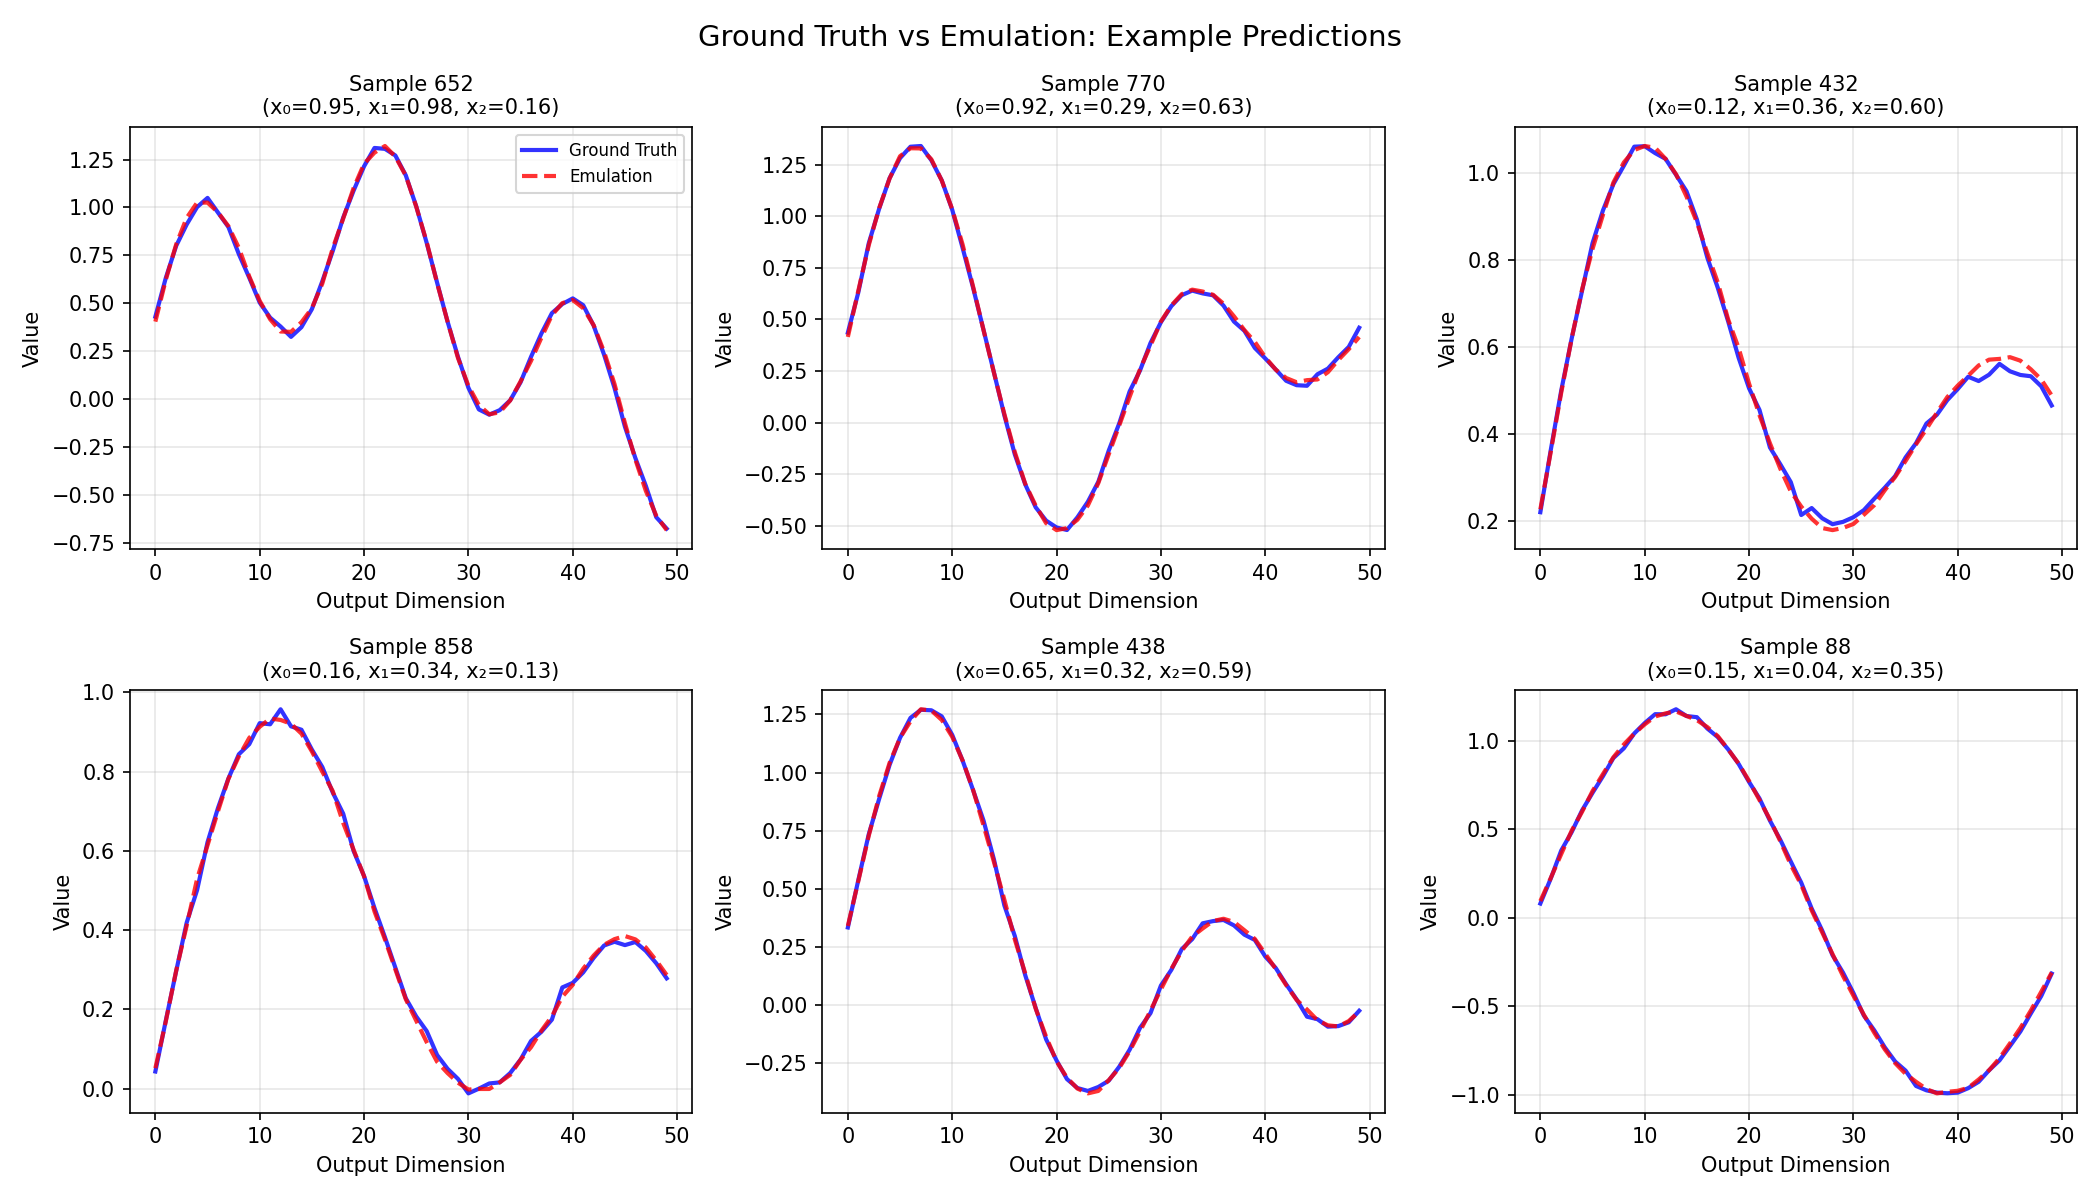
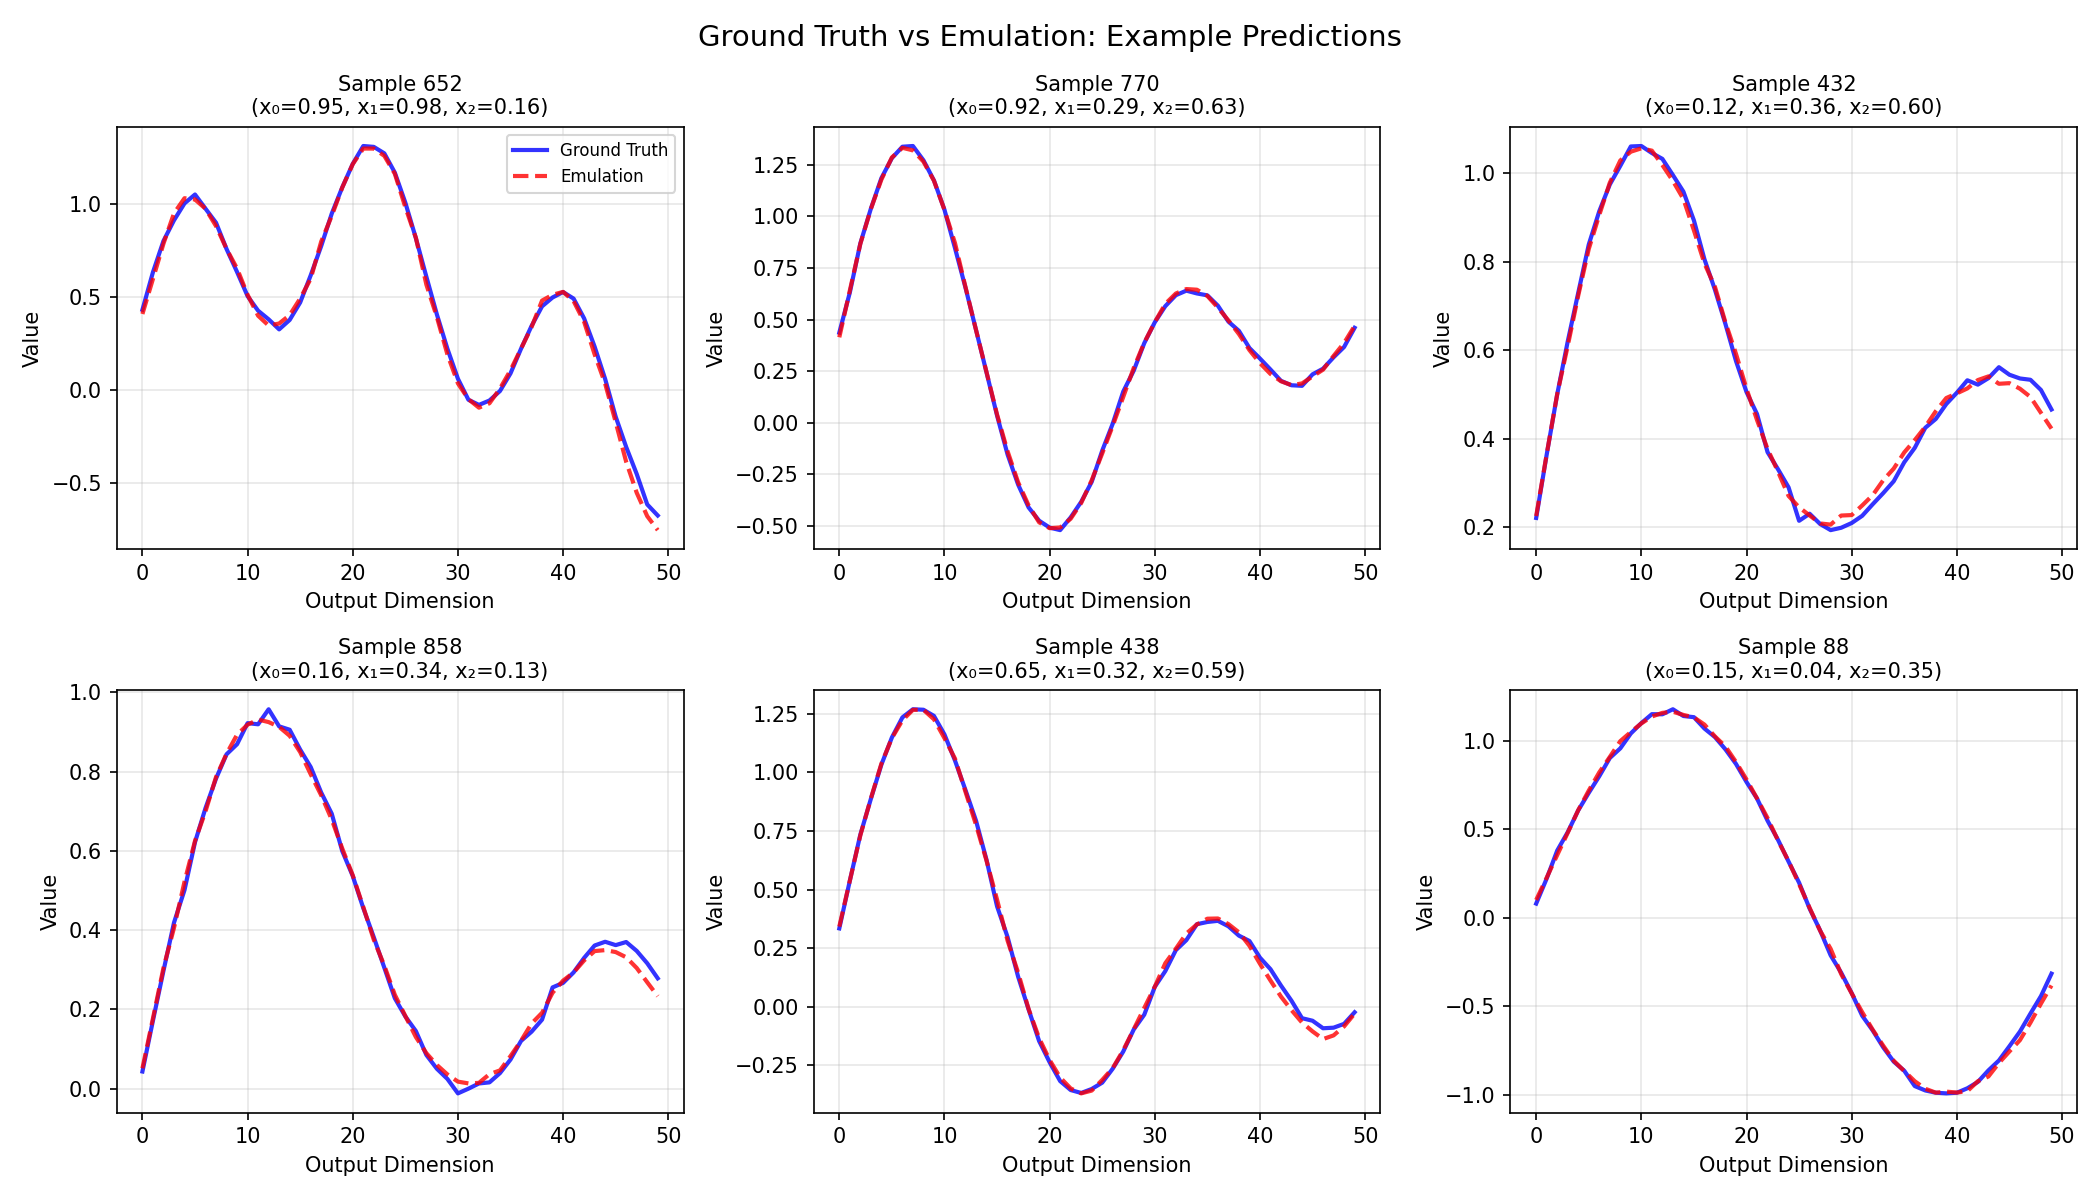
Apply GPT-5/Gemini review recommendations
- Constrain gamma to (0,1) via sigmoid on logits (per Speculator paper)
- Use shape inference instead of explicit features arg
- Add gradient clipping (optax.clip_by_global_norm)

Results: Slightly slower convergence (1330x vs 2370x improvement) but
mathematically correct behavior. Final loss still excellent (3.5e-4).

🤖 Generated with [Claude Code](https://claude.com/claude-code)

diff --git a/snippets/flax_nn.py b/snippets/flax_nn.py
@@ -29,29 +29,36 @@ class SpeculatorActivation(nn.Module):
     """
     Speculator activation function from Alsing et al. (2019), Eq. 4.
 
-    σ(x) = [γ + sigmoid(β·x) · (1 - γ)] · x
+    σ(x) = [γ + sigmoid(α·x) · (1 - γ)] · x
 
-    Where β (alpha) and γ (beta) are learnable parameters per neuron.
-    This provides smooth, infinitely differentiable activations suitable for HMC.
-
-    In CosmoPower notation:
-    - alpha = β (controls sigmoid steepness)
-    - beta = γ (controls linear vs sigmoid mixing)
+    Where α and γ are learnable parameters per neuron.
+    γ is constrained to (0,1) via sigmoid on learnable logits.
 
     Properties:
     - When γ → 1: becomes linear (identity)
-    - When γ → 0: becomes x·sigmoid(β·x) (smooth ReLU-like)
+    - When γ → 0: becomes x·sigmoid(α·x) (smooth ReLU-like)
     - Learnable parameters allow network to interpolate between regimes
+    - Smooth, infinitely differentiable (suitable for HMC)
+
+    Updated based on GPT-5/Gemini review:
+    - Uses shape inference (no explicit features arg)
+    - Constrains γ ∈ (0,1) via sigmoid on logits
     """
-    features: int
 
     @nn.compact
     def __call__(self, x):
-        # Learnable parameters (one per feature/neuron)
-        # Initialize alpha (beta in paper) to 1.0 for moderate sigmoid steepness
-        alpha = self.param('alpha', nn.initializers.ones, (self.features,))
-        # Initialize gamma (beta in CosmoPower) to 0.0 for ReLU-like start
-        gamma = self.param('gamma', nn.initializers.zeros, (self.features,))
+        # Infer feature dimension from input (lazy initialization)
+        features = x.shape[-1]
+
+        # α controls sigmoid steepness (unconstrained)
+        alpha = self.param('alpha', nn.initializers.ones, (features,))
+
+        # γ stored as logits, mapped through sigmoid to (0,1)
+        # Initialize logits to -2.0 so sigmoid(-2) ≈ 0.12 (mostly gated, slight linear)
+        gamma_logits = self.param('gamma_logits',
+                                   nn.initializers.constant(-2.0),
+                                   (features,))
+        gamma = jax.nn.sigmoid(gamma_logits)
 
         # Speculator activation: (gamma + sigmoid(alpha * x) * (1 - gamma)) * x
         sigmoid_term = jax.nn.sigmoid(alpha * x)
@@ -80,6 +87,9 @@ class EmulatorMLP(nn.Module):
     - Output: PCA coefficients (linear, no activation)
 
     Typical config: 4 hidden layers × 512 units
+
+    Updated based on GPT-5/Gemini review:
+    - SpeculatorActivation uses shape inference (no features arg)
     """
     n_hidden: int = 4
     n_units: int = 512
@@ -90,7 +100,7 @@ class EmulatorMLP(nn.Module):
         # Hidden layers with Speculator activation
         for i in range(self.n_hidden):
             x = nn.Dense(self.n_units, name=f'dense_{i}')(x)
-            x = SpeculatorActivation(self.n_units, name=f'activation_{i}')(x)
+            x = SpeculatorActivation(name=f'activation_{i}')(x)  # Shape inference
 
         # Output layer (linear, no activation)
         x = nn.Dense(self.n_outputs, name='output')(x)

diff --git a/scripts/train_toy_example.py b/scripts/train_toy_example.py
@@ -81,9 +81,13 @@ def generate_synthetic_data(n_samples: int, n_outputs: int = 50, seed: int = 42)
 # =============================================================================
 
 def create_train_state(rng, model, learning_rate, input_dim):
-    """Initialize training state."""
+    """Initialize training state with gradient clipping (per GPT-5/Gemini review)."""
     params = model.init(rng, jnp.ones((1, input_dim)))
-    tx = optax.adamw(learning_rate=learning_rate, weight_decay=1e-4)
+    # Add gradient clipping for stability (recommended by both reviewers)
+    tx = optax.chain(
+        optax.clip_by_global_norm(1.0),
+        optax.adamw(learning_rate=learning_rate, weight_decay=1e-4)
+    )
     return train_state.TrainState.create(
         apply_fn=model.apply,
         params=params,
